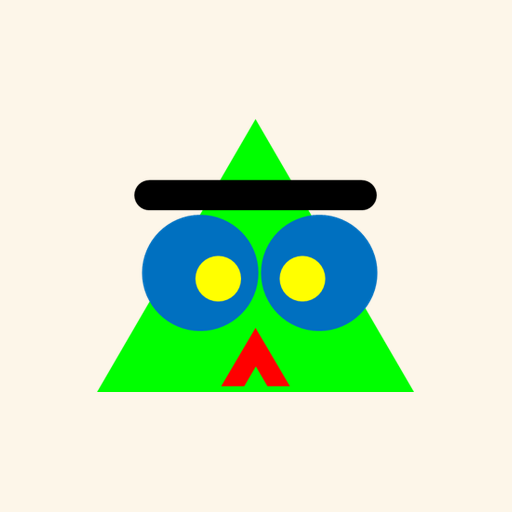
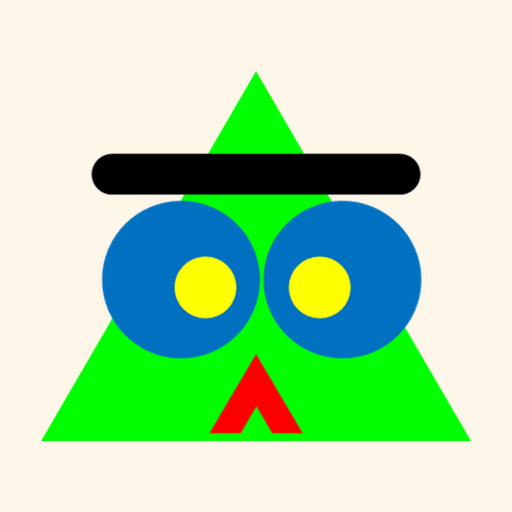
ホーム画面アイコンを大きく(84%) + アプリ名を「ボランティア」に

Changed region(s): [[0.0625, 0.125, 0.9375, 0.875]]

diff --git a/src/app/layout.tsx b/src/app/layout.tsx
@@ -25,7 +25,7 @@ export const metadata: Metadata = {
   appleWebApp: {
     capable: true,
     statusBarStyle: "black-translucent",
-    title: "わらわ〜ボランティア",
+    title: "ボランティア",
   },
 };
 
